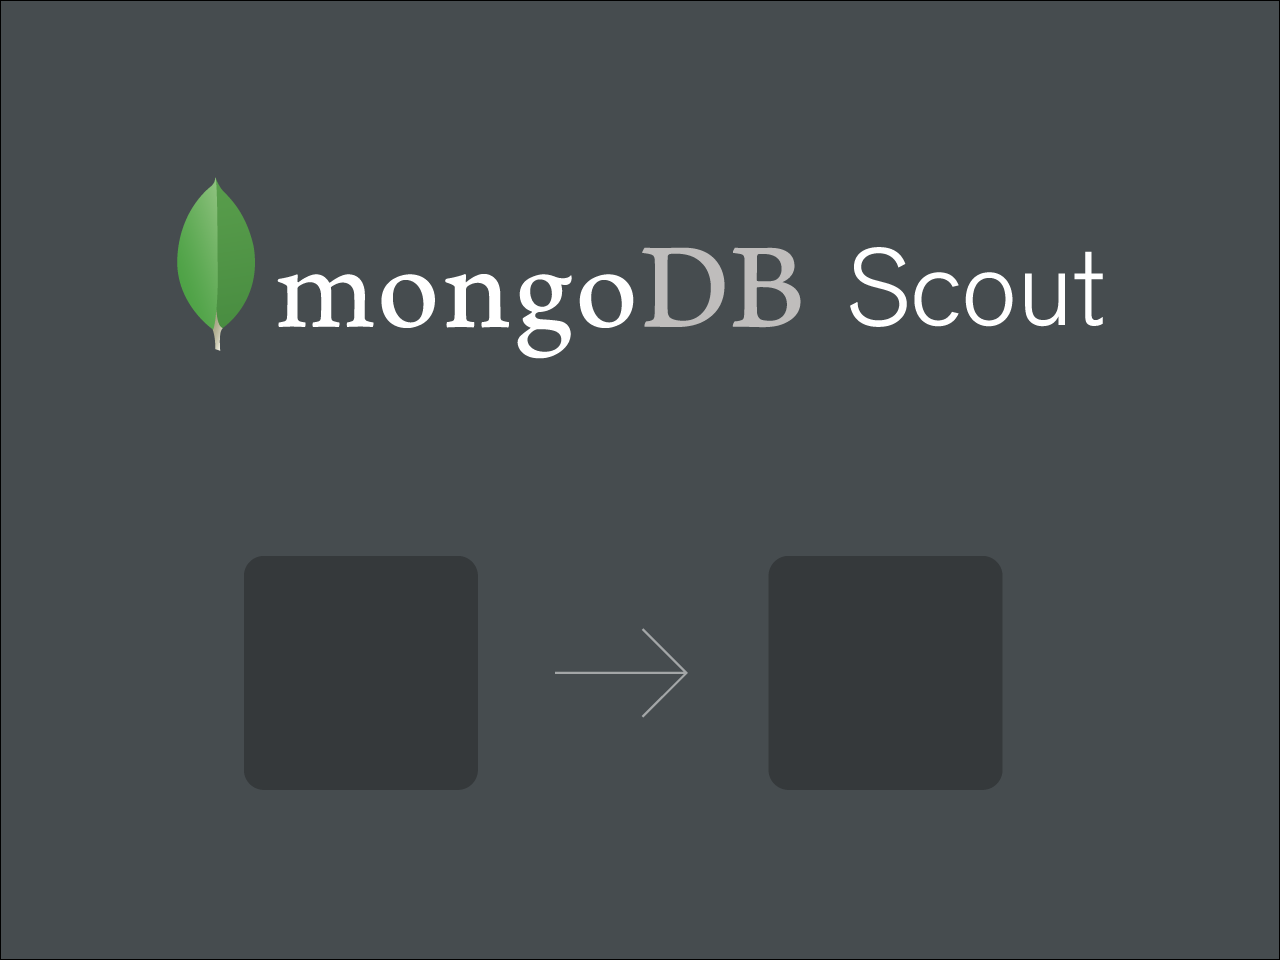
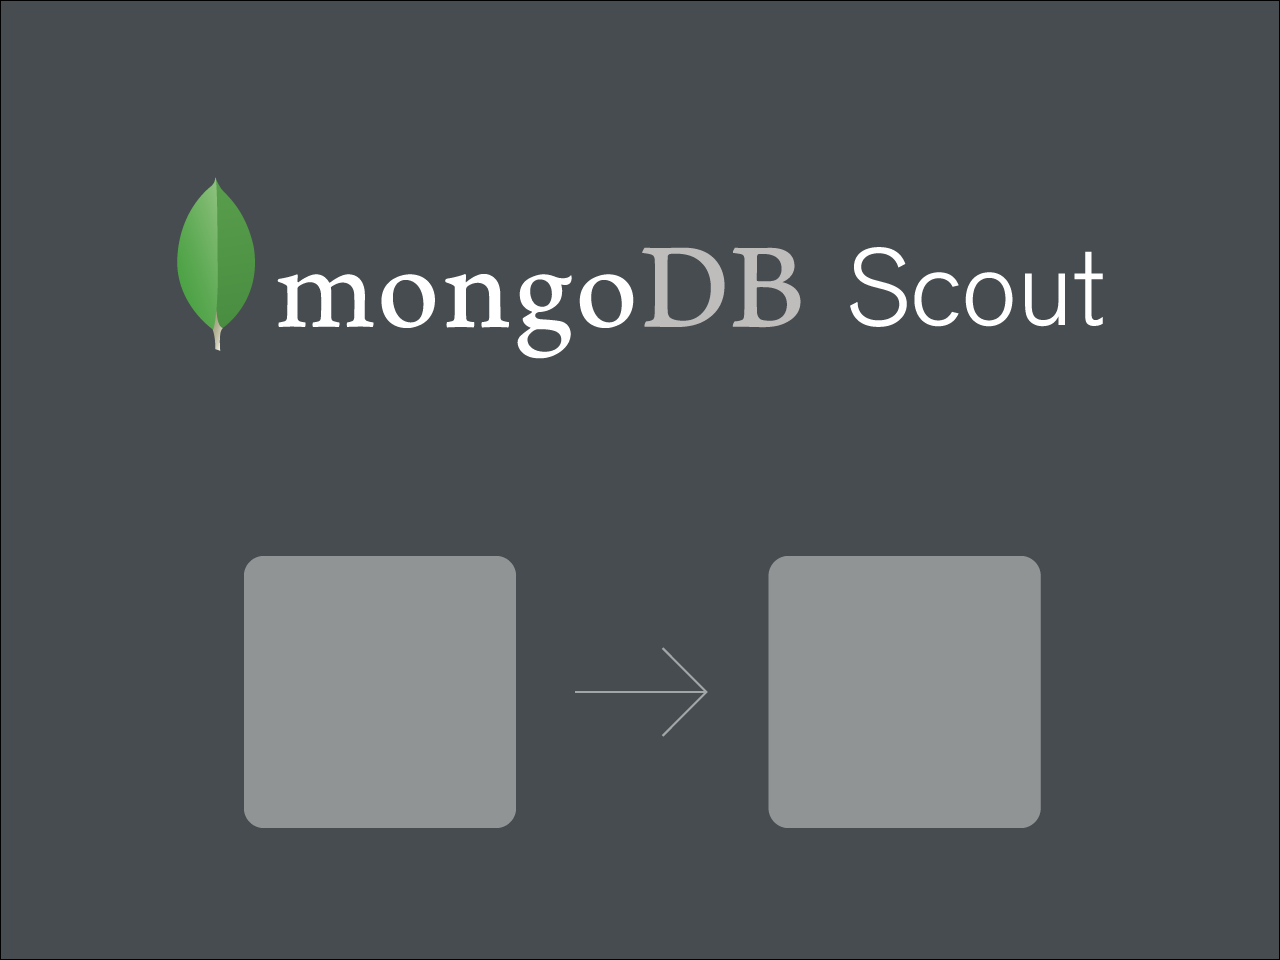
INT-350 incorporate Marc's scout-dmg-bg-2.png

Changed region(s): [[0.5938, 0.5625, 0.8125, 0.875], [0.1875, 0.5625, 0.4062, 0.875], [0.5, 0.6562, 0.5625, 0.75]]

diff --git a/tasks/darwin.js b/tasks/darwin.js
@@ -35,6 +35,21 @@ var CONFIG = module.exports = {
       name: 'MongoDB Prototcol',
       schemes: ['mongodb']
     }
+  ],
+  // The following only modifies "y" values from defaults
+  contents: [
+    {
+      x: 450,
+      y: 344,
+      type: 'link',
+      path: '/Applications'
+    },
+    {
+      x: 192,
+      y: 334,
+      type: 'file',
+      path: path.resolve(process.cwd(), APP_PATH)
+    }
   ]
 };
 
